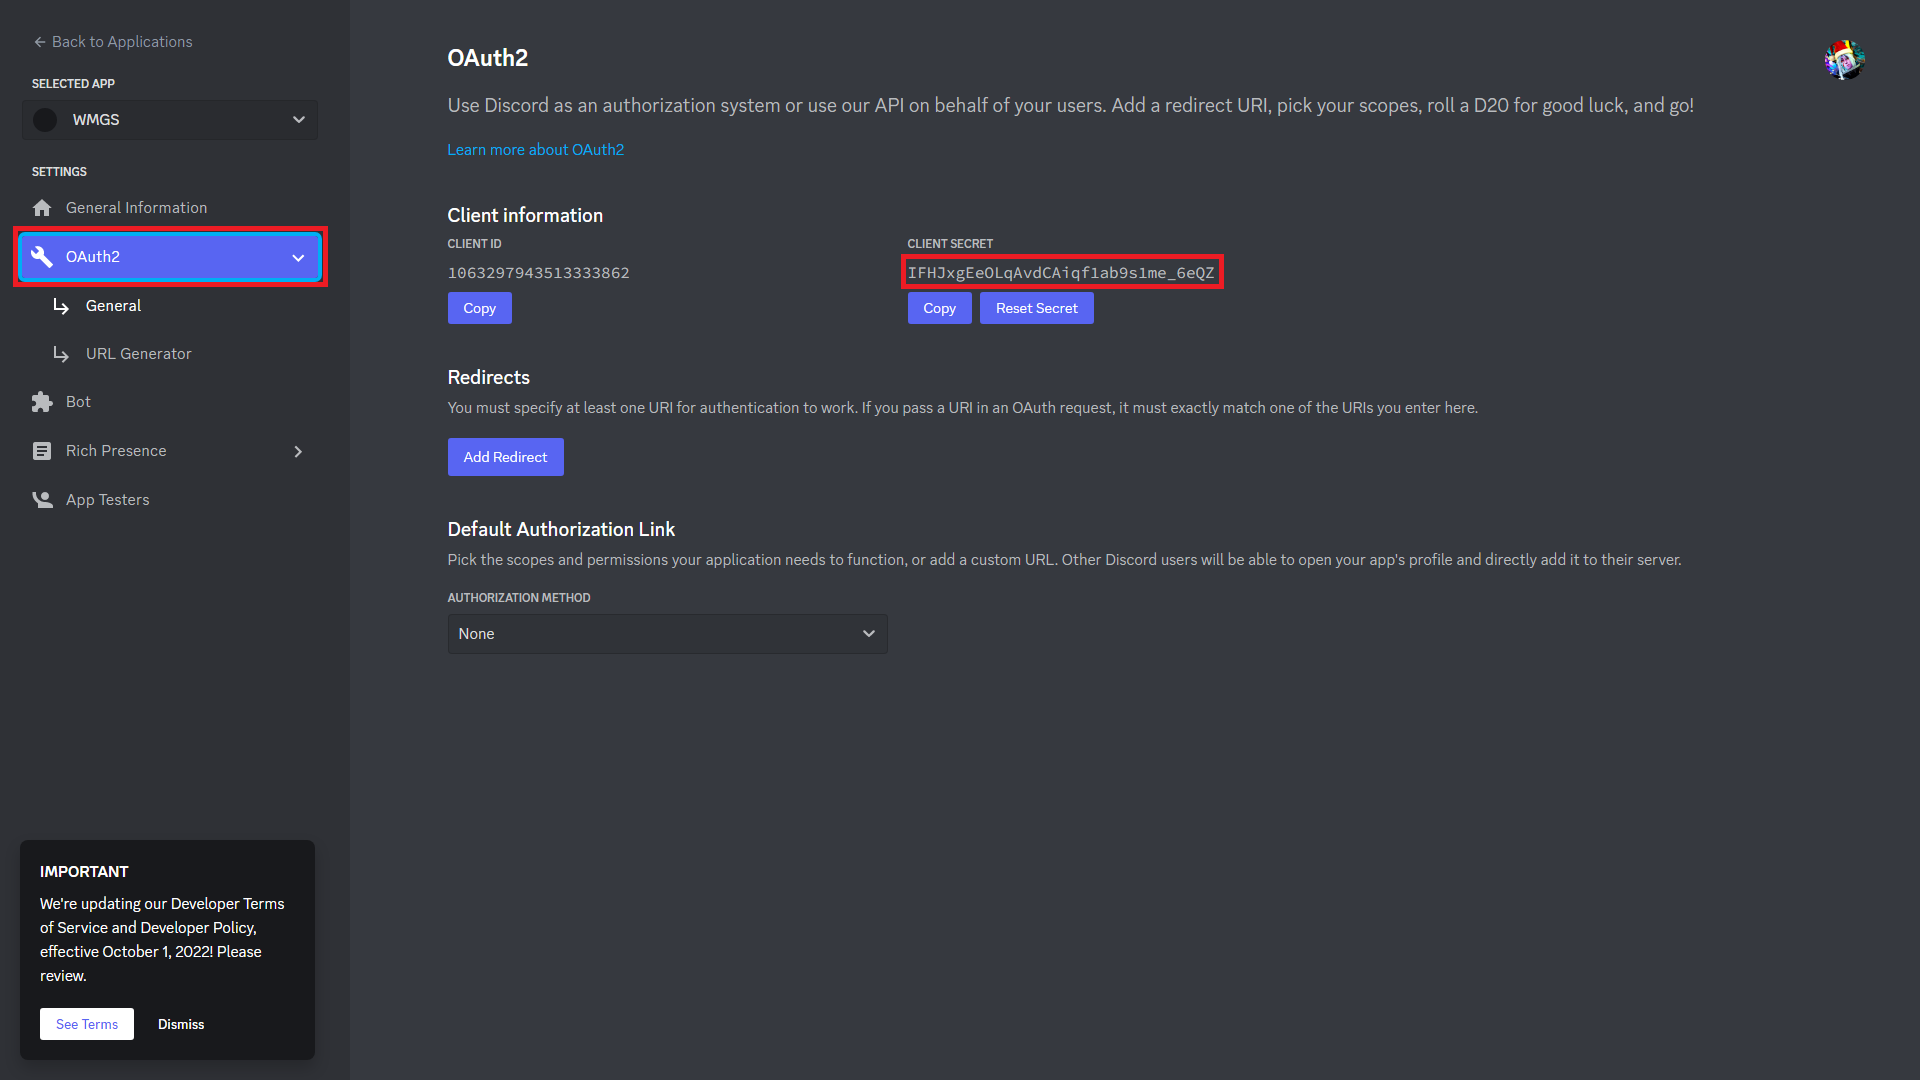
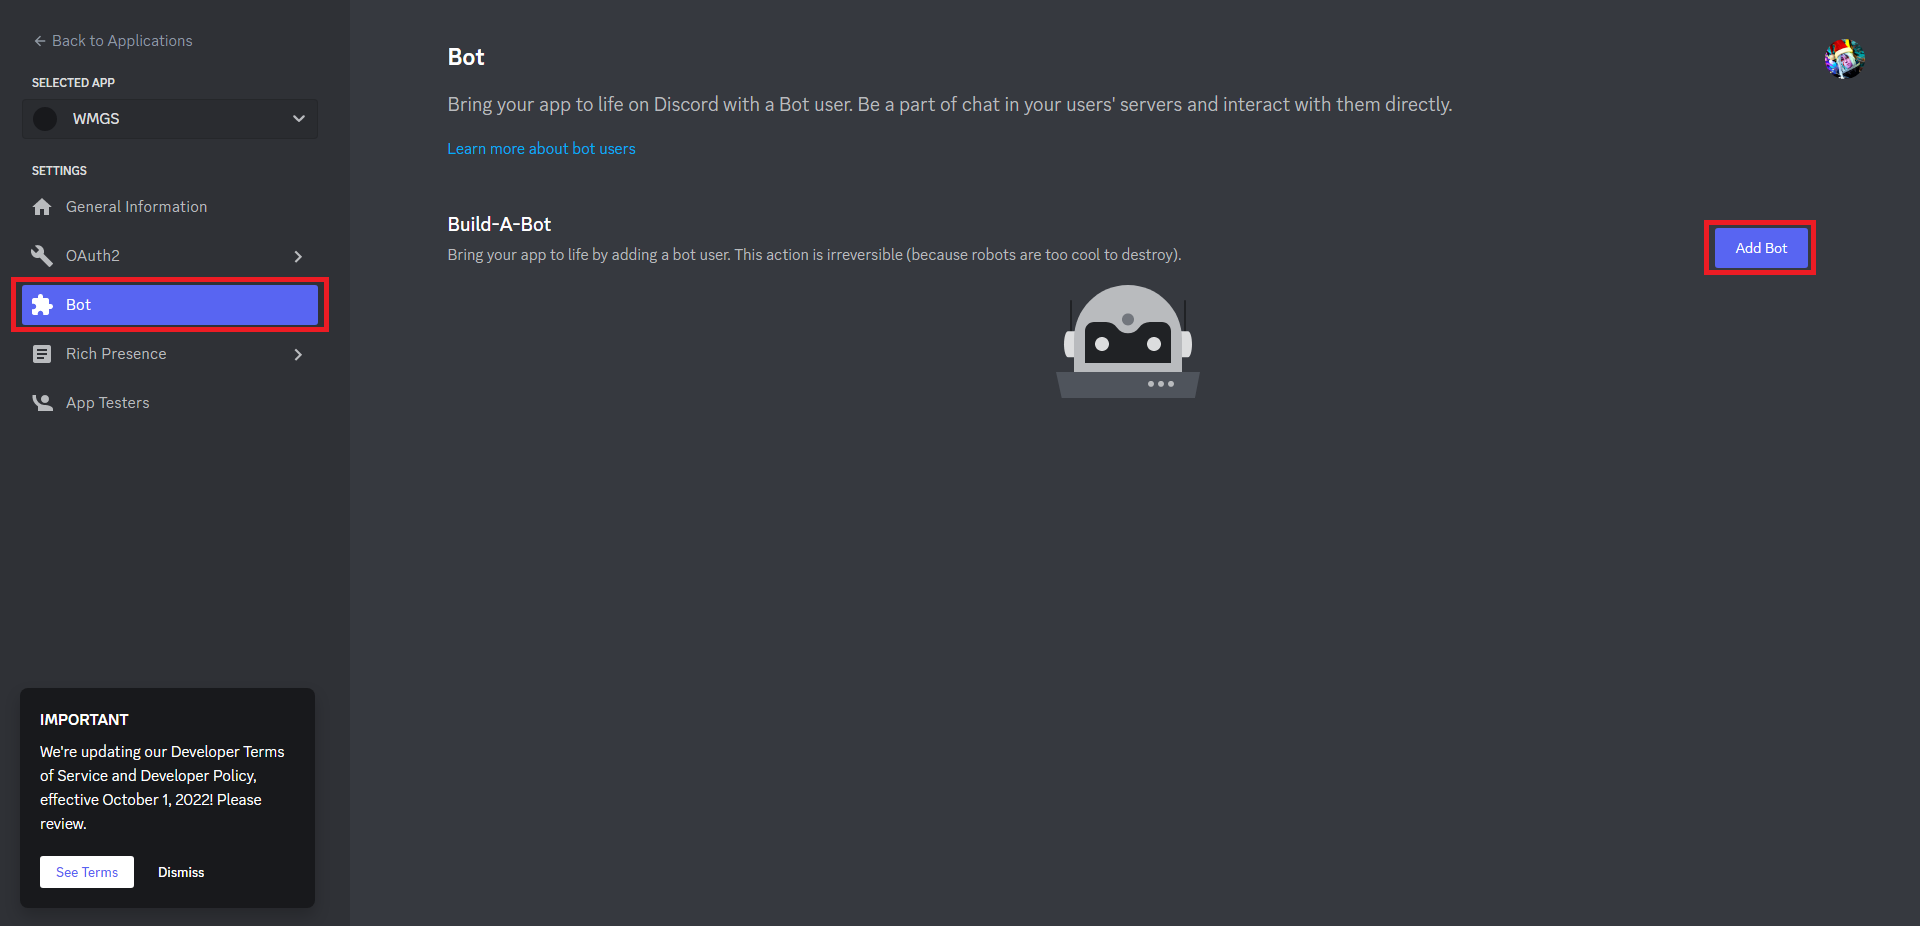
update readme

diff --git a/commands/public/server.js b/commands/public/server.js
@@ -2,7 +2,7 @@ const { SlashCommandBuilder } = require("discord.js");
 
 module.exports = {
   data: new SlashCommandBuilder()
-    .setName("server")
+    .setName("serverinfo")
     .setDescription("Provides information about the server."),
   async execute(interaction) {
     await interaction.reply(

diff --git a/readme.md b/readme.md
@@ -1,11 +1,34 @@
+[main]: assets/main.png
 [img1]: assets/1.png
 [img2]: assets/2.png
 [img3]: assets/3.png
 [img4]: assets/4.png
+[img5]: assets/5.png
+[img6]: assets/6.png
+[img7]: assets/7.png
+[img8]: assets/8.png
+[img9]: assets/9.png
 
 ## Tentang Discord Bot
 
 Bot Discord ini dibuat dengan JS dan mengimplementasikan Slash Commands
+
+### Commands
+
+![1][main]
+
+#### All Role
+
+- /anime : Pencarian informasi anime tertentu
+- /dota2 : Pencarian informasi tentang statistik akun Dota 2
+- /ping : Melakukan ping ke server bot
+- /serverinfo : Informasi tentang server
+- /userinfo : Informasi tentang user
+
+#### Admin Only
+
+- /reload events : Memuat ulang events
+- /reload commands : Memuat ulang commands
 
 #### Dibuat dengan :
 
@@ -14,14 +37,14 @@ Bot Discord ini dibuat dengan JS dan mengimplementasikan Slash Commands
 ### Contributor :
 
 - Putu Agus Narestha Adi Pratama
--
 
 ## Tata Cara Menggunakan Discord Bot
 
 - [Mengunduh repository ke dalam komputer](#mengunduh-repository)
 - [Mengunduh Dependency](#mengunduh-dependency)
 - [Konfigurasi File Config.json](#konfigurasi-file-configjson)
-- [Jalankan Bot]
+- [Jalankan Bot](#jalankan-bot)
+- [Invite Bot ke server anda](#invite-bot-ke-server-anda)
 
 ### Mengunduh Repository
 
@@ -51,20 +74,35 @@ Mengunduh dependency menggunakan perintah `npm install`
 Untuk `token` bisa dilihat pada bagian [Discord Developer Portal](https://discord.com/developers/applications/), atau bagi yang belum bisa mengikuti langkah berikut :
 
 - Klik tombol "New Application"
-  ![1][img1]
+  ![2][img1]
 - Isi sesuai nama bot yang diinginkan
-  ![2][img2]
-- Klik bagian OAuth2 dan token bot anda siap untuk dicopy
-  ![3][img3]
+  ![3][img2]
+- Klik bagian "Bot" dan klik "Add Bot"
+  ![4][img3]
+- Kemudian klik "Reset Token"
+  ![5][img4]
+- Kemudian klik "Copy"
+  ![6][img5]
+
   Untuk `cliendId` bisa dilihat pada bagian Discord
 
 - Buka aplikasi Discord pada PC/Laptop anda
 - Klik kanan profil discord anda lalu "Copy ID"
-  ![4][img4]
+  ![7][img6]
 
 ### Jalankan Bot
 
 Untuk menjalankan bot dengan perintah `node .`
+
+### Invite Bot ke server anda
+
+- Klik bagian "OAuth2" kemudian "URL Generator"
+- Pastikan bagian "bot" dan "Administrator" sudah tercentang
+  ![8][img7]
+- Kemudian copy link pada "GENERATED URL" dan paste pada browser anda
+  ![9][img8]
+- Kemudian pilih server yang anda inginkan kemudian klik "Continue"
+  ![10][img9]
 
 ### Discord WMGS
 
